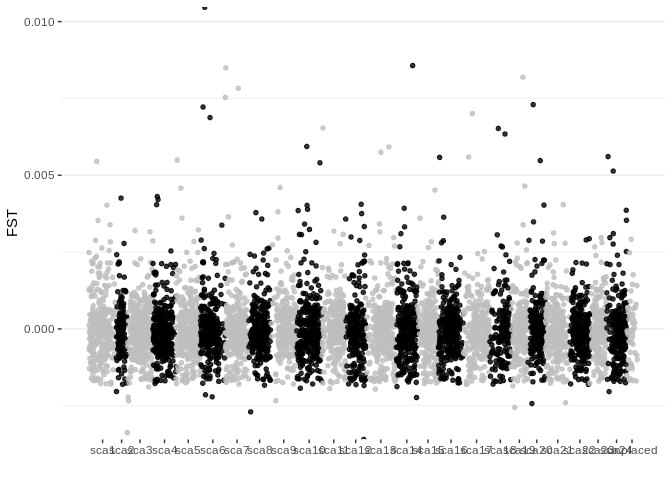
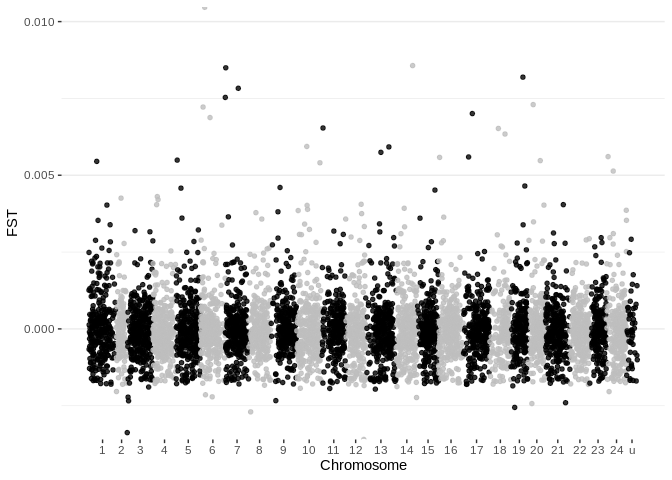
update

diff --git a/diversity_out/Plot.fst.manhattan.Traja.md b/diversity_out/Plot.fst.manhattan.Traja.md
@@ -17,14 +17,15 @@ library(tidyverse)
 #fst_100kb_set <- read_table("Traja_GRASDi_ref2_rev2.nDNA.snp.50.non_singleton.FST_100kb.windowed.weir.fst")
 fst_100kb_set <- read_table("~/work/Traja/Traja_GRASDi/R_work/Traja_GRASDi_ref2_rev2.nDNA.snp.50.non_singleton.FST_100kb.windowed.weir.fst")
 
-fst_100kb_set$CHROM <- factor(fst_100kb_set$CHROM, levels=c("sca1","sca2","sca3","sca4","sca5","sca6","sca7","sca8","sca9","sca10","sca11","sca12","sca13","sca14","sca15","sca16","sca17","sca18","sca19","sca20","sca21","sca22","sca23","sca24","unplaced"))
-
+fst_100kb_set$CHR <- gsub("sca","", fst_100kb_set$CHROM)
+fst_100kb_set$CHR <- gsub("unplaced", "u", fst_100kb_set$CHR)
+fst_100kb_set$CHR <- factor(fst_100kb_set$CHR, levels=c(seq(1:24),"u"))
 
 ####compute the cumulative position of SNPs
 don <- fst_100kb_set %>% 
   
   # Compute chromosome size
-  group_by(CHROM) %>% 
+  group_by(CHR) %>% 
   summarise(chr_len=max(BIN_END)) %>% 
   
   # Calculate cumulative position of each chromosome
@@ -32,13 +33,13 @@ don <- fst_100kb_set %>%
   select(-chr_len) %>%
   
   # Add this info to the initial dataset
-  left_join(fst_100kb_set, ., by=c("CHROM"="CHROM")) %>%
+  left_join(fst_100kb_set, ., by=c("CHR"="CHR")) %>%
   
   # Add a cumulative position of each SNP
-  arrange(CHROM, BIN_END) %>%
+  arrange(CHR, BIN_END) %>%
   mutate( BPcum=BIN_END+tot)
 
-axisdf = don %>% group_by(CHROM) %>% summarize(center=( max(BPcum) + min(BPcum) ) / 2 )
+axisdf = don %>% group_by(CHR) %>% summarize(center=( max(BPcum) + min(BPcum) ) / 2 )
 ```
 
 # Manhattan Plot of Fst
@@ -47,14 +48,14 @@ axisdf = don %>% group_by(CHROM) %>% summarize(center=( max(BPcum) + min(BPcum) 
 ggplot(don, aes(x=BPcum, y=MEAN_FST)) +
     
     # Show all points
-    geom_point( aes(color=as.factor(CHROM)), alpha=0.8, size=1.3) +
-    scale_color_manual(values = rep(c("grey", "black"), 22 )) +
+    geom_point( aes(color=as.factor(CHR)), alpha=0.8, size=1.3) +
+    scale_color_manual(values = rep(c("black", "grey"), 22 )) +
     
     # custom X axis:
-    scale_x_continuous( label = axisdf$CHROM, breaks= axisdf$center ) +
-    scale_y_continuous(expand = c(0, 0) ) +     # remove space between plot area and x axis
+    scale_x_continuous( label = axisdf$CHR, breaks= axisdf$center ) +
+    scale_y_continuous(expand = c(0, 0) ) + # remove space between plot area and x axis
     # custom X/Y labels
-    xlab("") + ylab("FST") +
+    xlab("Chromosome") + ylab("FST") +
   
     # Custom the theme:
     theme_bw() +
@@ -63,6 +64,7 @@ ggplot(don, aes(x=BPcum, y=MEAN_FST)) +
       panel.border = element_blank(),
       panel.grid.major.x = element_blank(),
       panel.grid.minor.x = element_blank()
+      #axis.title.x = element_text(angle=90)
     )
 ```
 
